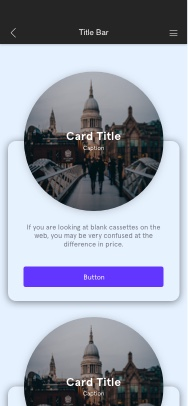
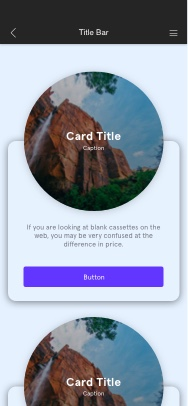
Image changes

Changed region(s): [[0.1064, 0.1773, 0.8777, 0.532], [0.1064, 0.7685, 0.8777, 1.0]]

diff --git a/scripts/tinymce/plugins/bf_layouts/layouts/h_bf_mce_layout3.html b/scripts/tinymce/plugins/bf_layouts/layouts/h_bf_mce_layout3.html
@@ -1,6 +1,6 @@
 <!-- This template should not be changed once is live --> 
 <div class="img-container">
-  <img src="../../../../scripts/tinymce/plugins/bf_layouts/layouts/resources/img1.jpeg" data-bf-image="%7B%7D">
+  <img src="../../../../scripts/tinymce/plugins/bf_layouts/layouts/resources/img2.jpeg" data-bf-image="%7B%7D">
   <div class="img-copy">
     <h1 class="main-title">Title</h1>
     <p class="caption">Caption</p>

diff --git a/scripts/tinymce/plugins/bf_layouts/layouts/h_bf_mce_layout9.html b/scripts/tinymce/plugins/bf_layouts/layouts/h_bf_mce_layout9.html
@@ -1,6 +1,6 @@
 <!-- This template should not be changed once is live --> 
 <div class="img-container">
-  <img src="../../../../scripts/tinymce/plugins/bf_layouts/layouts/resources/img1.jpeg" data-bf-image="%7B%7D">
+  <img src="../../../../scripts/tinymce/plugins/bf_layouts/layouts/resources/img6.jpeg" data-bf-image="%7B%7D">
 </div>
 <div class="top-copy">
   <h2 class="secondary-title">01</h2>

diff --git a/scripts/tinymce/plugins/bf_layouts/layouts/h_bf_mce_layout1.html b/scripts/tinymce/plugins/bf_layouts/layouts/h_bf_mce_layout1.html
@@ -1,6 +1,6 @@
 <!-- This template should not be changed once is live --> 
 <div class="image-container">
-    <img src="../../../../scripts/tinymce/plugins/bf_layouts/layouts/resources/img1.jpeg" data-bf-image="%7B%7D">
+    <img src="../../../../scripts/tinymce/plugins/bf_layouts/layouts/resources/img4.jpeg" data-bf-image="%7B%7D">
 </div>
 <div class="copy">
     <h1>Title</h1>
